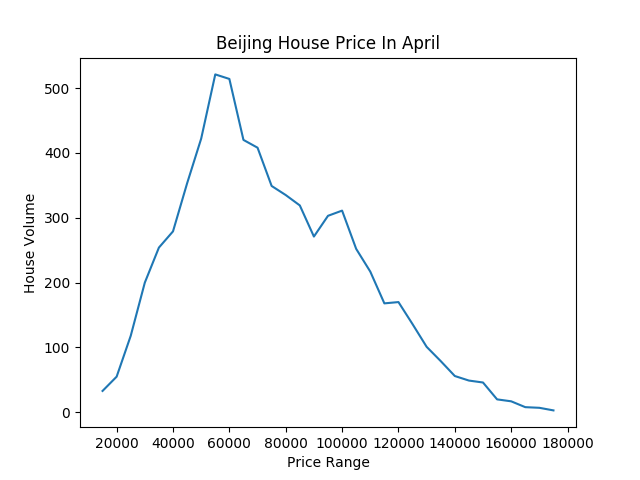
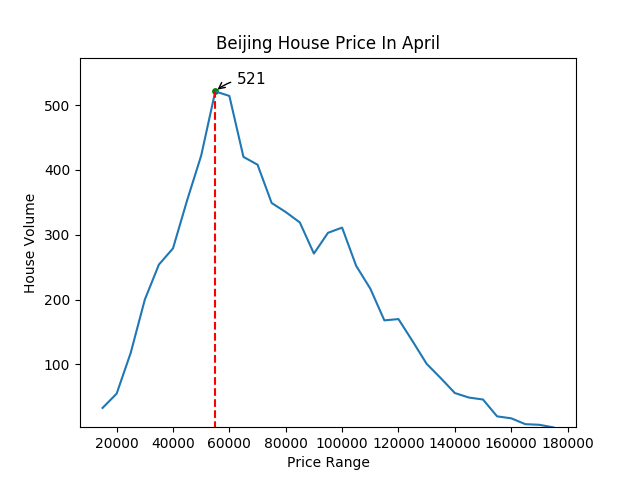
Update detail of the matplotlib show

diff --git a/matplotlib_show.py b/matplotlib_show.py
@@ -31,14 +31,28 @@ def main():
 
 	# pdb.set_trace() # 运行到这里会自动暂停
 
+	#画出主要plot曲线
+	real_range = price_range[1:]
 	fig, ax = plt.subplots()
-	ax.plot(price_range[1:], data)
+	ax.plot(real_range, data)
 
+	#设置x，y的limits
+	# # plt.xlim(real_range.min()*1.1, real_range.max()*1.1)
+	plt.ylim(data.min()*1.1,data.max()*1.1)
 
 	ax.set_title('Beijing House Price In April')
 	ax.set_xlabel('Price Range')
 	ax.set_ylabel('House Volume')
-	
+
+	#画出最高点数值及连线，Annotate point
+	t = 55000
+	y = 521
+	plt.plot([t,t], [0,y], color ='red',  linewidth=1.5, linestyle="--")
+	plt.annotate(r'$521$',
+             xy=(t, y),xytext=(+15, +5), textcoords='offset points', 
+             fontsize=11,arrowprops=dict(arrowstyle="->", connectionstyle="arc3,rad=.2"))
+	plt.scatter([t,],[y,], 15, color ='green')
+
 	plt.show()
 
 def select_price(from_price, end_price):
@@ -46,17 +60,14 @@ def select_price(from_price, end_price):
 	for table in tables:
 		new_table = table[0]
 		sql = "SELECT * FROM %s WHERE price>%d AND price<%d;" % (new_table,from_price,end_price)
-
 		try:
 			# 执行SQL语句
 			cursor.execute(sql)
 			# 获取所有记录列表
 			results = cursor.fetchall()
 			num = num + len(results)
-
 		except:
 			print ("Error: fail to select price data")
-
 	return num
 
 def show_tables():
@@ -67,7 +78,6 @@ def show_tables():
 	except:
 		print ("Error: unable to fetch table info")
 	return tables
-
 
 if __name__ == '__main__':
     main()
